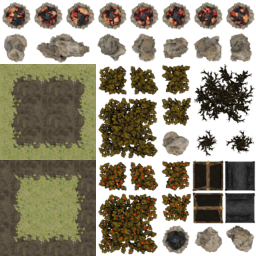
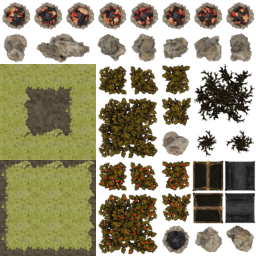
Fully Spawning Foliage Clumps

Changed region(s): [[0.0, 0.625, 0.375, 1.0], [0.0312, 0.2812, 0.3438, 0.5938]]

diff --git a/Assets/Scripts/FoliageSimulator.cs b/Assets/Scripts/FoliageSimulator.cs
@@ -12,8 +12,13 @@ public struct Harvestable
 }
 
 public class FoliageSimulator : MonoBehaviour {
-    int rock = 0;
-    int berries = 1;
+    const int rock = 0;
+    const int berries = 1;
+
+    //Navigational Info
+    static int passable = 0;
+    static int avoid = 1;
+    static int obstacle = 2;
 
     [Header("Picked Bushes")]
     public Tile BerryBushPicked1;
@@ -57,8 +62,7 @@ public class FoliageSimulator : MonoBehaviour {
 
     [Header("Foliage Tilemap")]
     //public static int TerrainSize;
-    public int BushesQty;
-    public int RocksQty;
+    public int ClumpQty;
     public int clumpSize;
     public int foliageSpacing;
     public Tilemap FoliageTilemap;
@@ -69,21 +73,75 @@ public class FoliageSimulator : MonoBehaviour {
     public LandscapeSimulator LandScapeSimulator;
 
     private void GenerateClump(int x, int y, int TimeToLive, int StartIndex, int type) {
-        if (TimeToLive > 0) {
-            int CurrentIndex = StartIndex + TimeToLive - 1;
-            harvestables[CurrentIndex] = new Harvestable
+        int IndexX = x + LandScapeSimulator.TerrainSize / 2;
+        int IndexY = y + LandScapeSimulator.TerrainSize / 2;
+        int CurrentIndex = StartIndex + TimeToLive - 1;
+        if (TimeToLive > 0 && LandScapeSimulator.NavComponent[IndexX * LandScapeSimulator.TerrainSize + IndexY].Traversability == passable) {
+            Harvestable h = new Harvestable
             {
                 resourceType= type,
                 resourceCount= Random.Range(2,5),
                 x= x,
                 y= y
             };
+
+            harvestables[CurrentIndex] = h;
+
             switch (type)
             {
-                case 0:
-                    FoliageTilemap.SetTile(new Vector3Int);
+                case rock:
+                    FoliageTilemap.SetTile(new Vector3Int(x, y, 0), Rocks[Random.Range(0, 9)]);
+                    LandScapeSimulator.NavComponent[IndexX * LandScapeSimulator.TerrainSize + IndexY].Traversability = obstacle;
+                    break;
+                case berries:
+                    FoliageTilemap.SetTile(new Vector3Int(x, y, 0), FreshBerryBushes[Random.Range(0, 4)]);
+                    LandScapeSimulator.NavComponent[IndexX * LandScapeSimulator.TerrainSize + IndexY].Traversability = avoid;
                     break;
             }
+            int NextX;
+            int NextY;
+            if (Random.Range(0,2) > 0) {
+                NextX = x + Random.Range(1, foliageSpacing);
+            } else {
+                NextX = x - Random.Range(1, foliageSpacing);
+            }
+            if (Random.Range(0, 2) > 0) {
+                NextY = y + Random.Range(1, foliageSpacing);
+            } else {
+                NextY = y - Random.Range(1, foliageSpacing);
+            }
+            if (x < -LandScapeSimulator.TerrainSize / 2 + foliageSpacing)
+                NextX = x + Random.Range(1, foliageSpacing);
+            if (x > LandScapeSimulator.TerrainSize / 2 - foliageSpacing)
+                NextY = x - Random.Range(1, foliageSpacing);
+            if (y < -LandScapeSimulator.TerrainSize / 2 + foliageSpacing)
+                NextY = y + Random.Range(1, foliageSpacing);
+            if (y > LandScapeSimulator.TerrainSize / 2 - foliageSpacing)
+                NextY = y - Random.Range(1, foliageSpacing);
+
+            GenerateClump(NextX, NextY, TimeToLive - 1, StartIndex, type);
+        } else if (LandScapeSimulator.NavComponent[IndexX * LandScapeSimulator.TerrainSize + IndexY].Traversability != passable) {
+            int NextX = x;
+            int NextY = y;
+            if (Random.Range(0, 2) > 0) {
+                NextX = x + 1;
+            } else {
+                NextX = x - 1;
+            }
+            if (Random.Range(0, 2) > 0) {
+                NextY = y + 1;
+            } else {
+                NextY = y - 1;
+            }
+            if (x < -LandScapeSimulator.TerrainSize / 2 + 2)
+                NextX = x + 1;
+            if (x > LandScapeSimulator.TerrainSize / 2 - 2)
+                NextX = x - 1;
+            if (y < -LandScapeSimulator.TerrainSize / 2 + 2)
+                NextY = y + 1;
+            if (y > LandScapeSimulator.TerrainSize / 2 - 2)
+                NextY = y - 1;
+            GenerateClump(NextX, NextY, TimeToLive, StartIndex, type);
         }
     }
 
@@ -113,16 +171,21 @@ public class FoliageSimulator : MonoBehaviour {
             Rock8,
             Rock9
         };
-        int ClumpCount = (int)Mathf.Pow(Mathf.Floor(Mathf.Sqrt(BushesQty + RocksQty)), 2);
-        int BoundsXY = (int)Mathf.Sqrt(ClumpCount);
+
+        int ClumpCount = (int)Mathf.Floor(Mathf.Sqrt(ClumpQty));
+        int BoundsXY = ClumpCount;
+        ClumpCount *= ClumpCount;
         harvestables = new Harvestable[ClumpCount * clumpSize];
         int flipFlop = 0;
-        int ClumpSpacing = BoundsXY/LandScapeSimulator.TerrainSize;
-        for (int x = 0; x < Mathf.Sqrt(ClumpCount); x++) {
-            for (int y = 0; y < Mathf.Sqrt(ClumpCount); y++) {
-                GenerateClump(x * ClumpSpacing, y * ClumpSpacing, clumpSize, (x * BoundsXY + y) * ClumpCount, flipFlop);
-                if (flipFlop > 0) flipFlop = 0;
-                else flipFlop = 1;
+        int ClumpSpacing = LandScapeSimulator.TerrainSize/BoundsXY;
+        for (int x = 0; x < BoundsXY; x++) {
+            for (int y = 0; y < BoundsXY; y++) {
+                GenerateClump((x * ClumpSpacing) - (LandScapeSimulator.TerrainSize/2), (y * ClumpSpacing) - (LandScapeSimulator.TerrainSize / 2), clumpSize, (x * BoundsXY + y) * clumpSize, flipFlop);
+                if (Random.Range(0, 2) > 0)
+                {
+                    if (flipFlop != rock) flipFlop = rock;
+                    else flipFlop = berries;
+                }
             }
         }
     }

diff --git a/Assets/Scripts/LandscapeSimulator.cs b/Assets/Scripts/LandscapeSimulator.cs
@@ -30,7 +30,7 @@ public struct WFCTile {
 }
 
 public struct Navigation {
-    int Traversability;
+    public int Traversability;
 }
 
 public class LandscapeSimulator : MonoBehaviour {
@@ -79,12 +79,13 @@ public class LandscapeSimulator : MonoBehaviour {
     [Header("Tile Maps")]
     public int TerrainSize = 16;
 
-    WFCTile[] Map2D;
+    public WFCTile[] Map2D;
+    public Navigation[] NavComponent;
     public Tilemap GroundTileMap;
 
     private void CollapseTerrain(int posx, int posy) {
         if (posx < TerrainSize && posy < TerrainSize) {
-            int[] TileOptions = new int[18];
+            int[] TileOptions = new int[22];
             int count = 0;
             //get tiles around inst
             if (posx > 0)
@@ -130,14 +131,18 @@ public class LandscapeSimulator : MonoBehaviour {
                 { }
                 else { continue; }
 
-                if (type <= 1 && UnityEngine.Random.Range(0, 10) < 1)
-                    continue;
+                if (type == 0) {
+                    TileOptions[count] = type;
+                    count++;
+                    TileOptions[count] = type;
+                    count++;
+                }
 
                 TileOptions[count] = type;
                 count++;
             }
             //set tile and socket
-            int RandomFittingTile = UnityEngine.Random.Range(0, count - 1);
+            int RandomFittingTile = UnityEngine.Random.Range(0, count);
             Map2D[posx * TerrainSize + posy] = tiles[TileOptions[RandomFittingTile]];
 
             GroundTileMap.SetTile(new Vector3Int(posx - (TerrainSize / 2), posy - (TerrainSize / 2), 0), Map2D[posx * TerrainSize + posy].GetTile());
@@ -169,10 +174,12 @@ public class LandscapeSimulator : MonoBehaviour {
         tiles[17].SetParams(DirtGrassDownRight, new int[4] { Dirt, Dirt, GrassVDirt, DirtVGrass });
 
         Map2D = new WFCTile[TerrainSize * TerrainSize];
+        NavComponent = new Navigation[TerrainSize * TerrainSize];
 
         for (int x = 0; x < TerrainSize; x++) {
             for (int y = 0; y < TerrainSize; y++) {
                 Map2D[x * TerrainSize + y].SetParams(null, new int[4] { Empty, Empty, Empty, Empty });
+                NavComponent[x * TerrainSize + y].Traversability = passable;
             }
         }
         for (int x = 0; x < TerrainSize; x++) {
